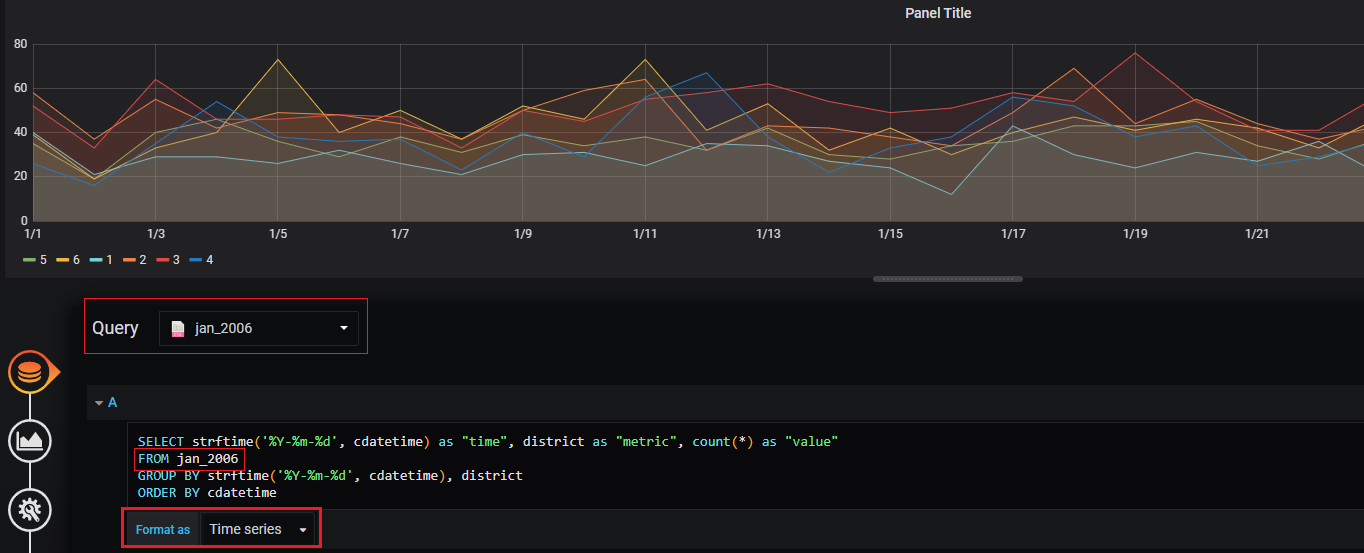
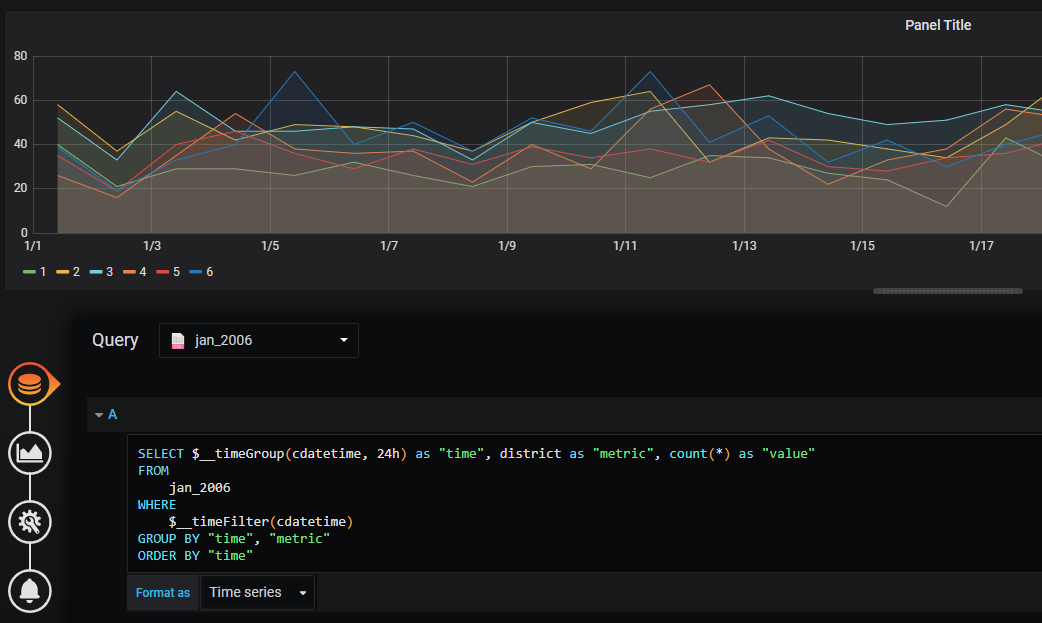
Add examples

diff --git a/README.MD b/README.MD
@@ -42,6 +42,8 @@ Example:
 
 - CSV File: data/SacramentocrimeJanuary2006.csv
 - DS name `jan_2006`
+- group by 1 hour
+- filter by current time range
 
 ```sql
 SELECT $__timeGroup(cdatetime, 1h) as "time", district as "metric", count(*) as "value"
@@ -49,11 +51,28 @@ FROM
     jan_2006
 WHERE
     $__timeFilter(cdatetime)
-GROUP BY "time", district
+GROUP BY "time", "metric"
 ORDER BY "time"
 ```
 
 ![](./doc/image/graph.png)
+
+
+Example:
+
+- CSV File: data/SalesJan2009.csv
+- DS name `sales`
+- group by 24 hours
+
+```sql
+SELECT $__timeGroup(Transaction_date, 24h) as "time", Payment_Type as "metric", count(*) as "value"
+FROM
+sales
+GROUP BY "time", "metric"
+ORDER BY "time"
+```
+
+![](./doc/image/graph2.png)
 
 ###### Simple table
 
